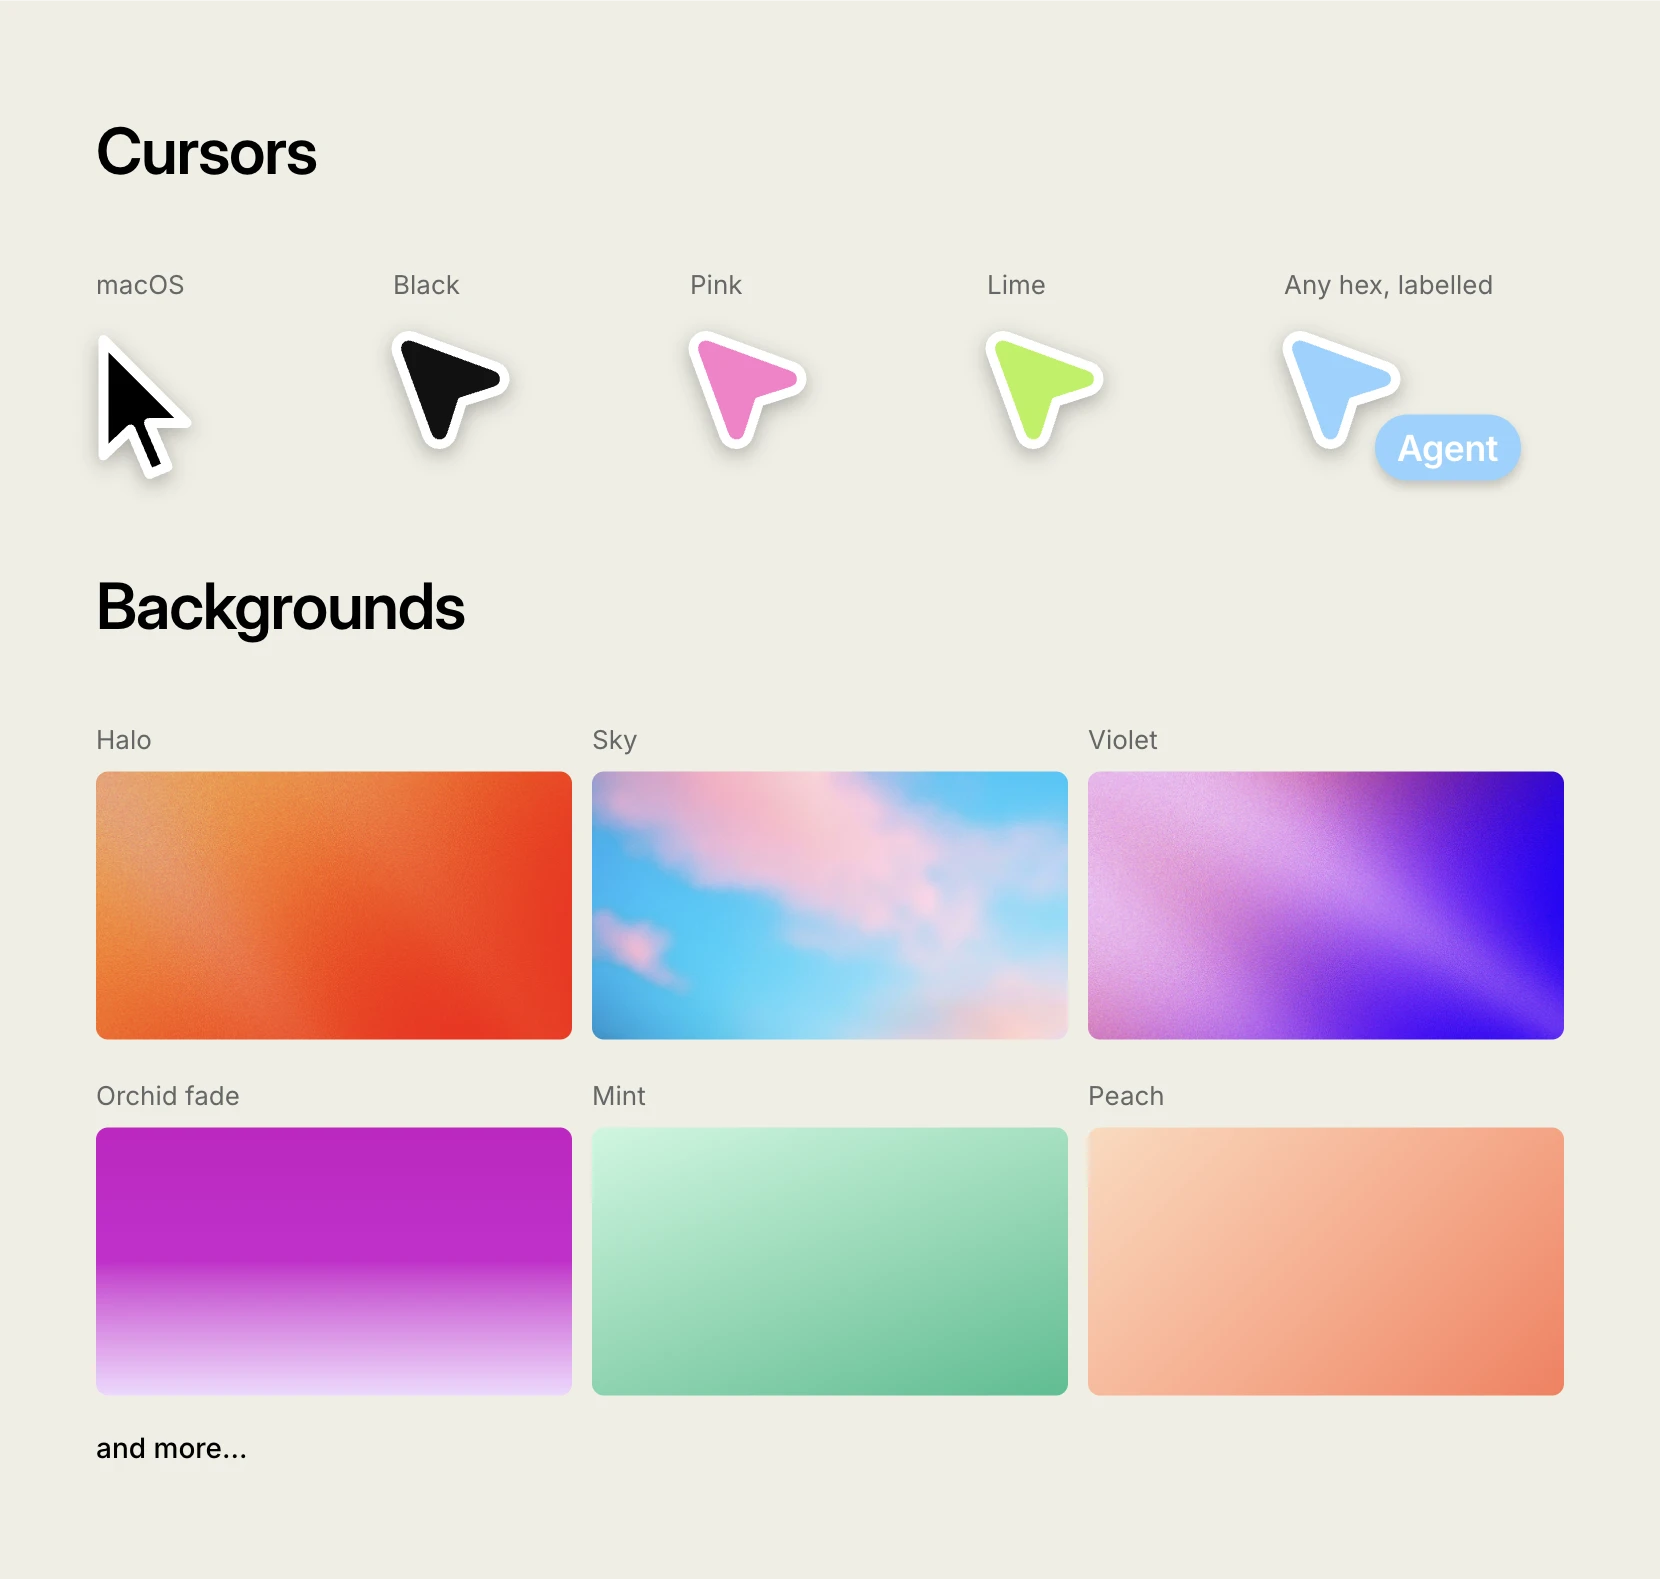
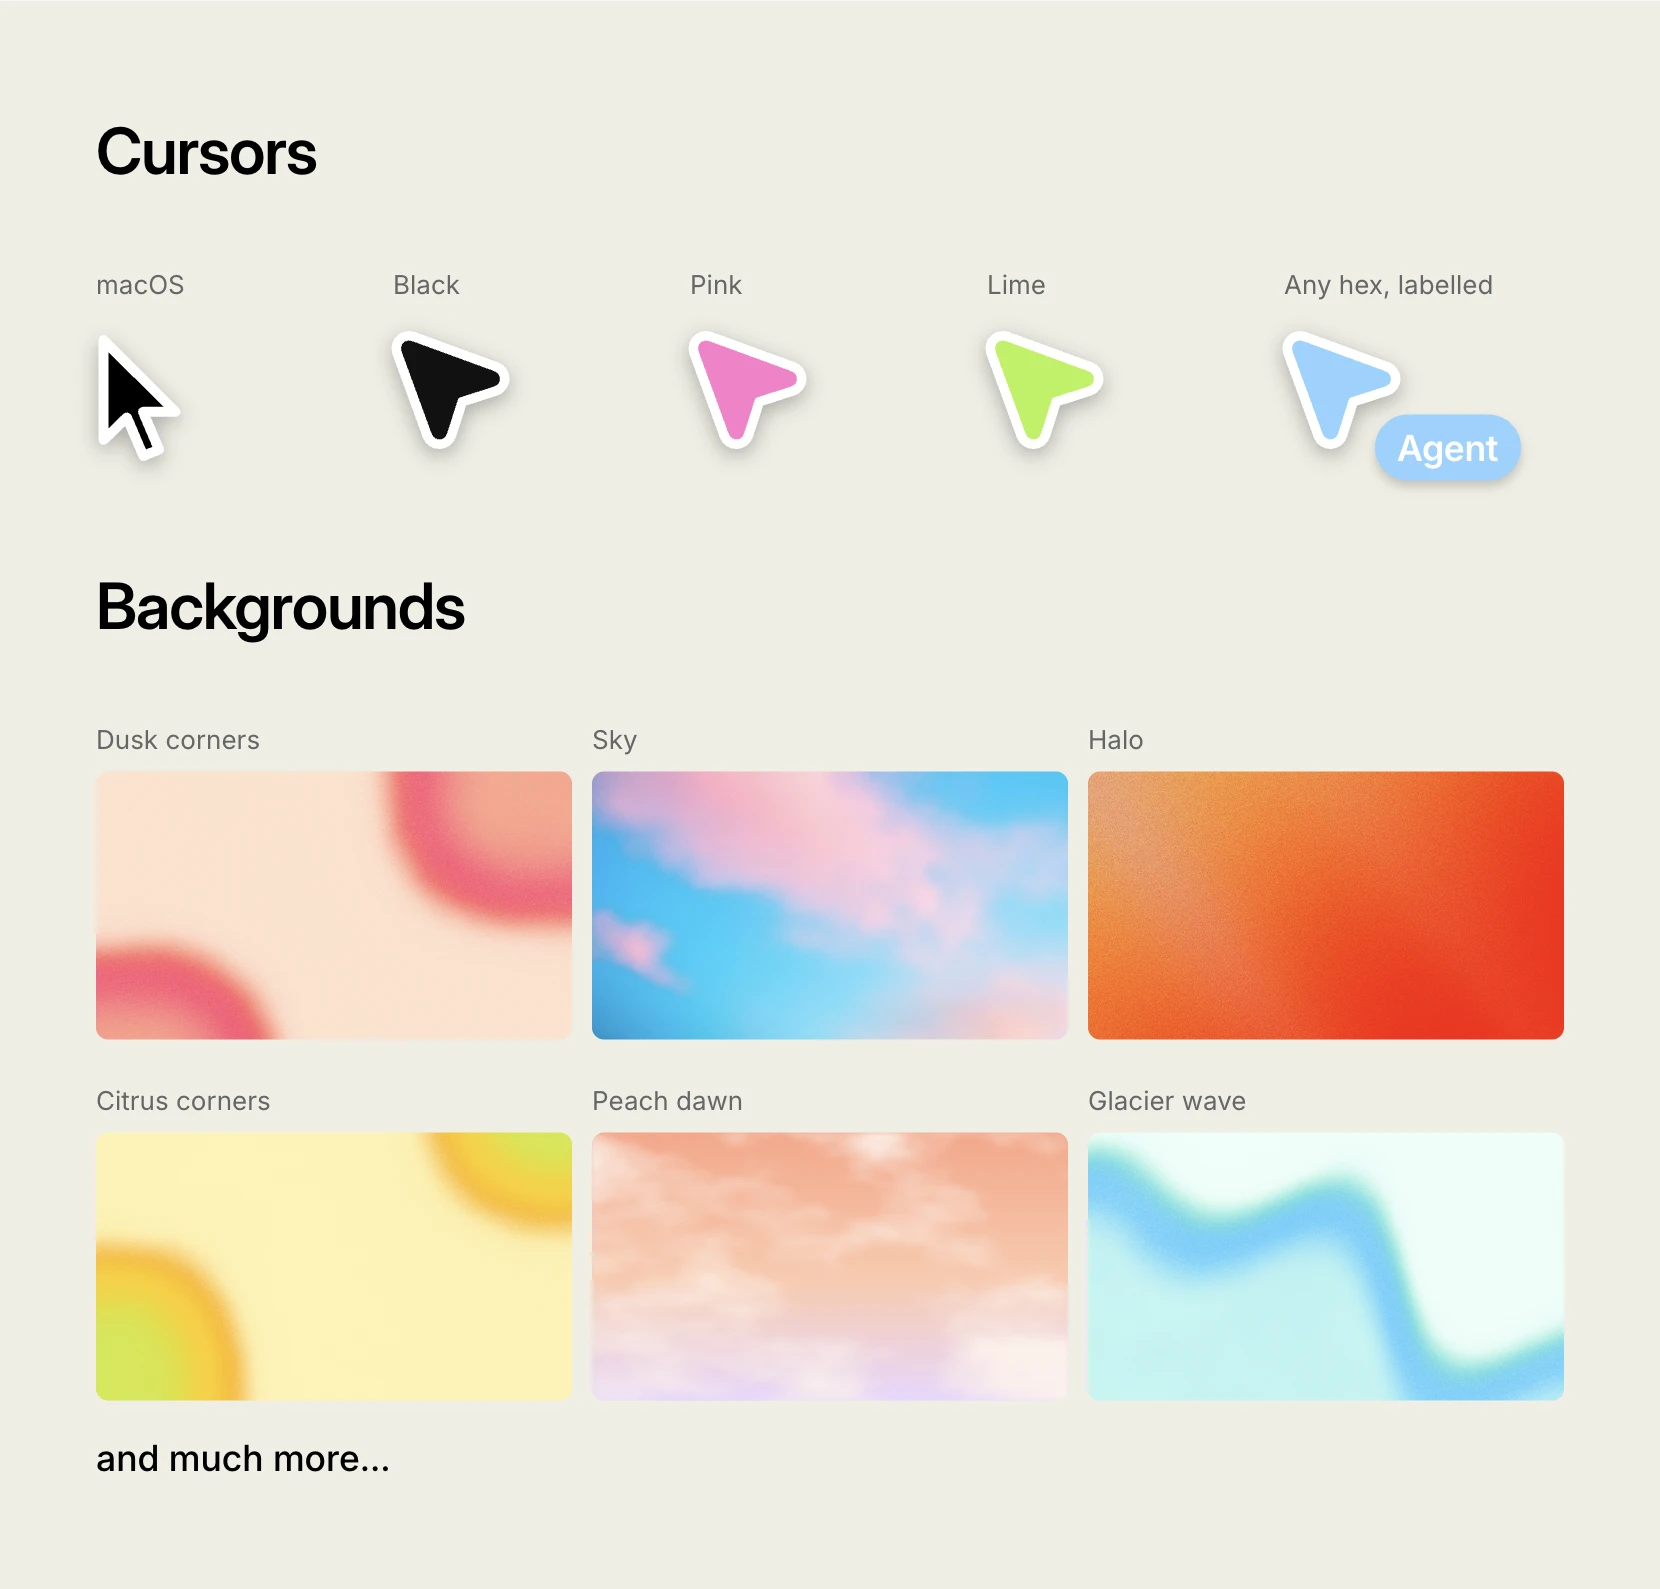
18 new backdrops, sky the default, and a new README picture
Backdrops rendered with ShaderGradient and Paper Shaders, plus grain fades
and cloud skies of our own, all 1920x1080. Orchid joins them from Paper.

diff --git a/src/config.ts b/src/config.ts
@@ -4,7 +4,30 @@ import { z } from 'zod'
 import type { VoiceChoice } from './voice.ts'
 
 /** The backdrops in library/backdrops, by name. */
-export const BACKDROPS = ['halo', 'sky', 'violet'] as const
+export const BACKDROPS = [
+  'halo',
+  'sky',
+  'violet',
+  'orchid',
+  'dusk-halo',
+  'dusk-mesh',
+  'dusk-corners',
+  'dusk-fade',
+  'glacier-halo',
+  'glacier-mesh',
+  'glacier-wave',
+  'glacier-fade',
+  'citrus-halo',
+  'citrus-warp',
+  'citrus-corners',
+  'citrus-fade',
+  'graphite-halo',
+  'graphite-mesh',
+  'graphite-sphere',
+  'graphite-fade',
+  'candy-clouds',
+  'peach-dawn',
+] as const
 
 /** How the app is shown: on the backdrop as it is, or in a browser window. */
 export const DISPLAYS = ['none', 'browser'] as const
@@ -81,7 +104,7 @@ export interface Config {
 }
 
 const config: z.ZodType<Config> = z.strictObject({
-  backdrop: z.enum(BACKDROPS).default('halo').describe('What the app is framed on in the video.'),
+  backdrop: z.enum(BACKDROPS).default('sky').describe('What the app is framed on in the video.'),
   display: z
     .enum(DISPLAYS)
     .default('none')

diff --git a/src/cli.ts b/src/cli.ts
@@ -66,7 +66,7 @@ const USAGE = `product-demo-agent-toolkit ${version}
 Set up, once: product-demo-agent-toolkit setup   Install the command for good, and the skills for Claude Code
              product-demo-agent-toolkit skills [dir]   Copy just the skills into ~/.claude/skills (or dir)
 
-Settings live in .product-demo/config.json: mode (just_do_it | ask), backdrop (halo | sky | violet), display (none | browser),
+Settings live in .product-demo/config.json: mode (just_do_it | ask), backdrop (sky, or any of the 22 in library/backdrops), display (none | browser),
 cursor (black | pink | lime | macos, or { style, size }), sound (true | false | { click }, default true),
 keep (rehearsals and shoots kept per film, default 10), review (cut also makes the review image, default false).`
 

diff --git a/README.md b/README.md
@@ -45,7 +45,7 @@ So we built a toolkit to address these issues and much more.
 
 ## Tasteful Defaults
 
-![The cursors (macOS, black, pink, lime, and any hex colour with an Agent label) and the backgrounds (halo, sky, violet and more)](docs/defaults.webp)
+![The cursors (macOS, black, pink, lime, and any hex colour with an Agent label) and some of the backgrounds (dusk corners, sky, halo, citrus corners, peach dawn and glacier wave)](docs/defaults.webp)
 
 As well as:
 
@@ -60,16 +60,16 @@ As well as:
 The toolkit is ready to roll by default, but if you want to customize it, you can do that too!
 Add `.product-demo/config.json` to the project:
 
-| Setting    | Default                  | What it does                                                                                                                                                          |
-| ---------- | ------------------------ | --------------------------------------------------------------------------------------------------------------------------------------------------------------------- |
-| `mode`     | `"just_do_it"`           | When something is unclear, make the best choice and note it. `"ask"` stops and asks instead.                                                                          |
-| `backdrop` | `"halo"`                 | What the app sits on: `halo`, `sky` or `violet`.                                                                                                                      |
-| `display`  | `"none"`                 | How the app is shown: `none`, on the backdrop as it is, or `browser`, in a browser window with an address bar.                                                        |
-| `cursor`   | `"black"`                | The cursor: `black`, `pink`, `lime`, `macos` or any hex colour like `"#8fd3ff"`, or with a size and a label: `{ "style": "#8fd3ff", "size": 1.5, "label": "Agent" }`. |
-| `sound`    | `true`                   | Click and typing sounds. `false` for none, or `{ "click": true, "typing": false }`.                                                                                   |
-| `voice`    | Jessica, from ElevenLabs | Who speaks the voiceover: `{ "provider": "elevenlabs", "voice": "<voice id>" }`.                                                                                      |
-| `keep`     | `10`                     | How many rehearsals and shoots of each film to keep.                                                                                                                  |
-| `review`   | `false`                  | Whether `cut` also makes the review image.                                                                                                                            |
+| Setting    | Default                  | What it does                                                                                                                                                                                                                                                                                                                                         |
+| ---------- | ------------------------ | ---------------------------------------------------------------------------------------------------------------------------------------------------------------------------------------------------------------------------------------------------------------------------------------------------------------------------------------------------- |
+| `mode`     | `"just_do_it"`           | When something is unclear, make the best choice and note it. `"ask"` stops and asks instead.                                                                                                                                                                                                                                                         |
+| `backdrop` | `"sky"`                  | What the app sits on: `sky`, `halo`, `violet`, `orchid`, `dusk-halo`, `dusk-mesh`, `dusk-corners`, `dusk-fade`, `glacier-halo`, `glacier-mesh`, `glacier-wave`, `glacier-fade`, `citrus-halo`, `citrus-warp`, `citrus-corners`, `citrus-fade`, `graphite-halo`, `graphite-mesh`, `graphite-sphere`, `graphite-fade`, `candy-clouds` or `peach-dawn`. |
+| `display`  | `"none"`                 | How the app is shown: `none`, on the backdrop as it is, or `browser`, in a browser window with an address bar.                                                                                                                                                                                                                                       |
+| `cursor`   | `"black"`                | The cursor: `black`, `pink`, `lime`, `macos` or any hex colour like `"#8fd3ff"`, or with a size and a label: `{ "style": "#8fd3ff", "size": 1.5, "label": "Agent" }`.                                                                                                                                                                                |
+| `sound`    | `true`                   | Click and typing sounds. `false` for none, or `{ "click": true, "typing": false }`.                                                                                                                                                                                                                                                                  |
+| `voice`    | Jessica, from ElevenLabs | Who speaks the voiceover: `{ "provider": "elevenlabs", "voice": "<voice id>" }`.                                                                                                                                                                                                                                                                     |
+| `keep`     | `10`                     | How many rehearsals and shoots of each film to keep.                                                                                                                                                                                                                                                                                                 |
+| `review`   | `false`                  | Whether `cut` also makes the review image.                                                                                                                                                                                                                                                                                                           |
 
 ## Features
 

diff --git a/skills/product-demo/SKILL.md b/skills/product-demo/SKILL.md
@@ -101,7 +101,7 @@ Give the user the video from there, or pass `--out` to `cut`. Lines starting `Ch
 
 If the request could mean two things, a still doesn't look like what was asked for, or a run says several elements match a step, make the best choice and carry on: runs print what they chose (`Check:` lines), so tell the user what you decided when you hand over the video. If `.product-demo/config.json` sets `"mode": "ask"`, stop and ask the user instead, showing them the still.
 
-`.product-demo/config.json` can also set the `backdrop` (`halo`, the default, `sky` or `violet`), the `display` (`none`, the default, or `browser`), the `cursor` (`black`, the default, `pink`, `lime`, `macos` or any hex colour like `"#8fd3ff"`, or with a size and a label beside it: `{ "style": "#8fd3ff", "size": 1.5, "label": "Agent" }`), its `sound` (`true` by default, or `{ "click": false }`), how many runs of each film to `keep` (default 10), and `"review": true` to have `cut` make a review image every time.
+`.product-demo/config.json` can also set the `backdrop` (`sky`, the default, or `halo`, `violet`, `orchid`, `dusk-halo`, `dusk-mesh`, `dusk-corners`, `dusk-fade`, `glacier-halo`, `glacier-mesh`, `glacier-wave`, `glacier-fade`, `citrus-halo`, `citrus-warp`, `citrus-corners`, `citrus-fade`, `graphite-halo`, `graphite-mesh`, `graphite-sphere`, `graphite-fade`, `candy-clouds` or `peach-dawn`), the `display` (`none`, the default, or `browser`), the `cursor` (`black`, the default, `pink`, `lime`, `macos` or any hex colour like `"#8fd3ff"`, or with a size and a label beside it: `{ "style": "#8fd3ff", "size": 1.5, "label": "Agent" }`), its `sound` (`true` by default, or `{ "click": false }`), how many runs of each film to `keep` (default 10), and `"review": true` to have `cut` make a review image every time.
 
 ## What makes a good film
 

diff --git a/library/README.md b/library/README.md
@@ -2,6 +2,6 @@
 
 What a cut is made of.
 
-- `backdrops/`: what sits behind the product. Picked by `backdrop` in `.product-demo/config.json`.
+- `backdrops/`: what sits behind the product, 1920×1080. Picked by `backdrop` in `.product-demo/config.json`. The `*-halo` ones are rendered with [ShaderGradient](https://shadergradient.co) (MIT), the `*-mesh`, `*-corners`, `*-wave`, `*-warp` and `graphite-sphere` ones with [Paper Shaders](https://shaders.paper.design) (Apache-2.0), and the fades and skies are SVG noise and gradients of our own.
 - `cursors/`: the cursor the cut draws along the pointer's path, in the colour `cursor` picks.
 - `sounds/`: the sounds the cut plays, all CC0 from Freesound. A click picked at random for each click: `click-1.wav` is [mouse click](https://freesound.org/people/Weak_Hero/sounds/790532) by Weak_Hero, `click-2.wav` [mouse_click.wav](https://freesound.org/people/Six%20Ways/sounds/223445) by Six Ways. The keys, `key-1.wav` to `key-8.wav`, `space.wav` and `enter.wav`, are keystrokes cut from one recording of one keyboard: [Computer keyboard typing close up](https://freesound.org/people/khenshom/sounds/565204) by khenshom.
